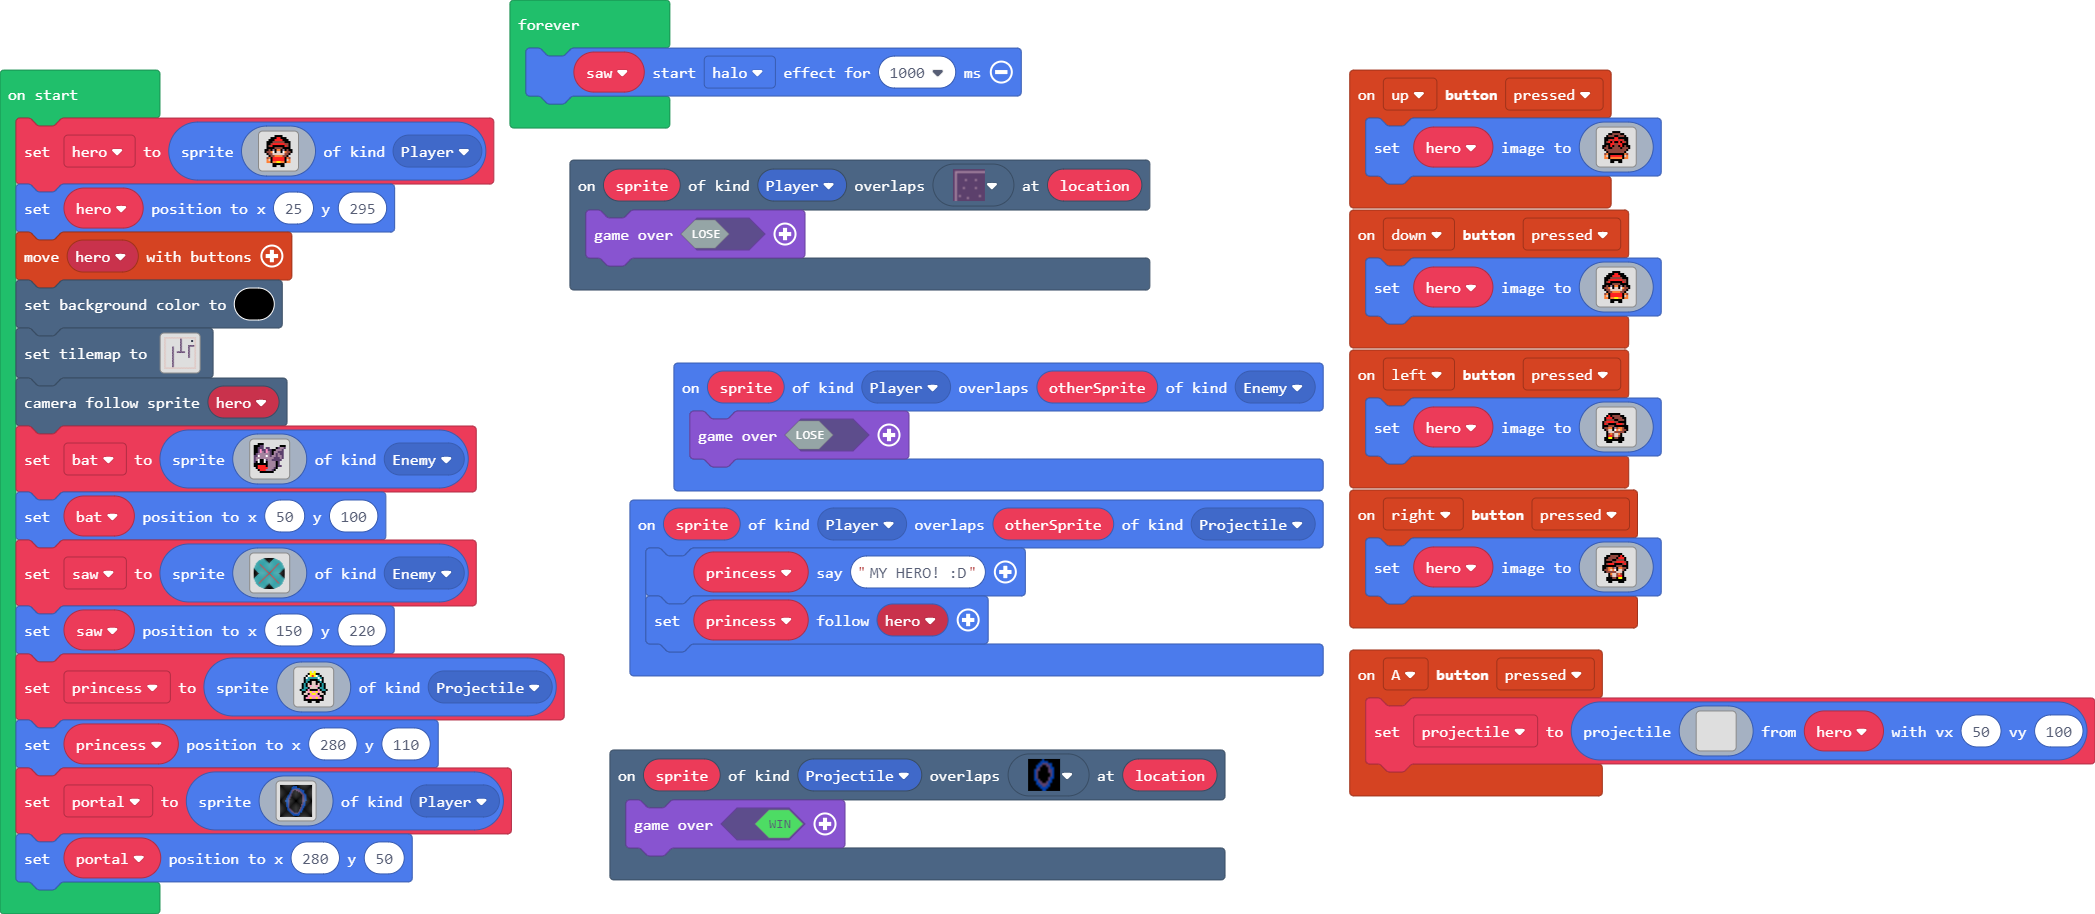
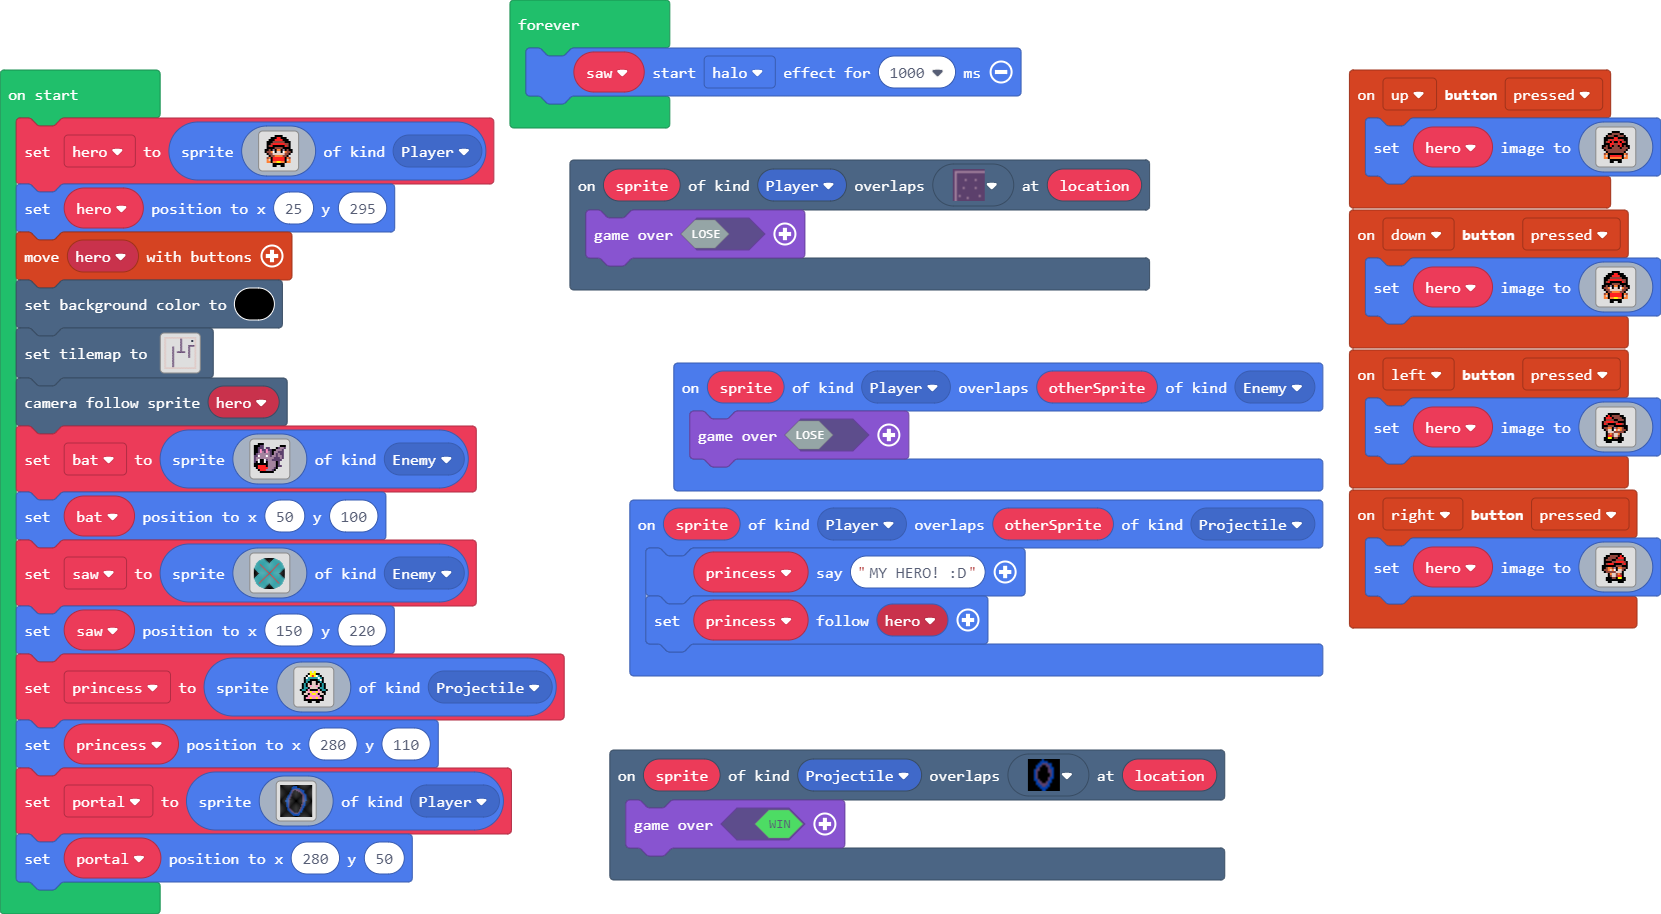
Update main.blocks, main.ts

diff --git a/main.ts b/main.ts
@@ -85,26 +85,6 @@ sprites.onOverlap(SpriteKind.Player, SpriteKind.Projectile, function (sprite, ot
     princess.say("MY HERO! :D")
     princess.follow(hero)
 })
-controller.A.onEvent(ControllerButtonEvent.Pressed, function () {
-    projectile = sprites.createProjectileFromSprite(img`
-. . . . . . . . . . . . . . . . 
-. . . . . . . . . . . . . . . . 
-. . . . . . . . . . . . . . . . 
-. . . . . . . . . . . . . . . . 
-. . . . . . . . . . . . . . . . 
-. . . . . . . . . . . . . . . . 
-. . . . . . . . . . . . . . . . 
-. . . . . . . . . . . . . . . . 
-. . . . . . . . . . . . . . . . 
-. . . . . . . . . . . . . . . . 
-. . . . . . . . . . . . . . . . 
-. . . . . . . . . . . . . . . . 
-. . . . . . . . . . . . . . . . 
-. . . . . . . . . . . . . . . . 
-. . . . . . . . . . . . . . . . 
-. . . . . . . . . . . . . . . . 
-`, hero, 50, 100)
-})
 sprites.onOverlap(SpriteKind.Player, SpriteKind.Enemy, function (sprite, otherSprite) {
     game.over(false)
 })
@@ -151,7 +131,6 @@ controller.up.onEvent(ControllerButtonEvent.Pressed, function () {
 . . . . . f f . . f f . . . . . 
 `)
 })
-let projectile: Sprite = null
 let princess: Sprite = null
 let hero: Sprite = null
 hero = sprites.create(img`
